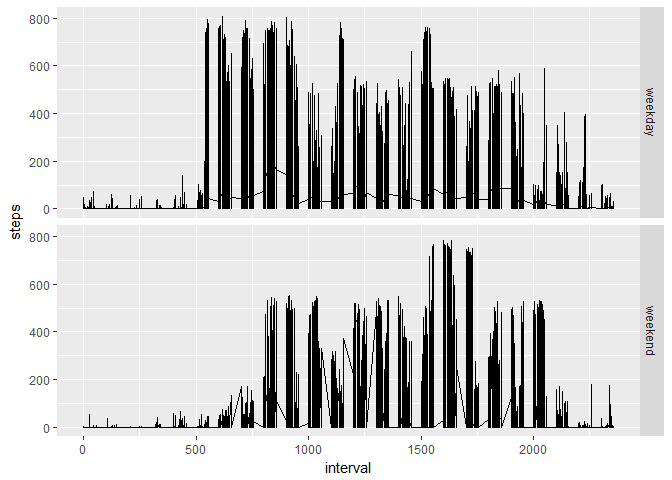
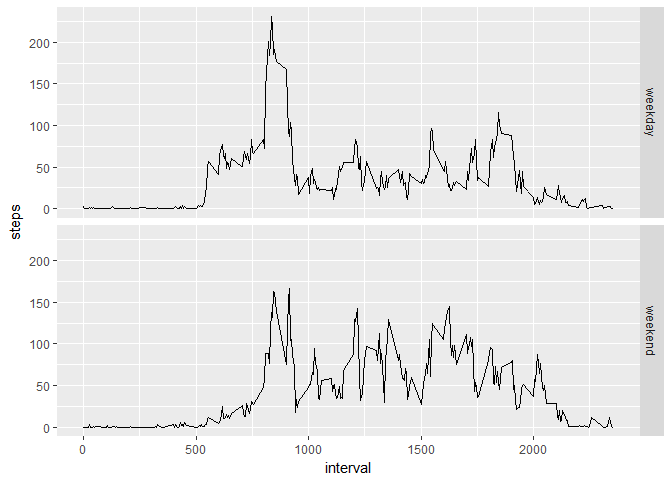
Add files via upload

diff --git a/PA1_template.html b/PA1_template.html
@@ -202,11 +202,15 @@ filled.step.per.day.median&lt;-median(data.filled.step.per.day$steps)</code></pr
 <pre class="r"><code>data.filled$weekday&lt;-weekdays(data.filled$date)
 data.filled[weekdays(data.filled$date) %in% c(&quot;Monday&quot;, &quot;Tuesday&quot;, &quot;Wednesday&quot;,&quot;Thursday&quot;,&quot;Friday&quot;),c(&quot;weekday&quot;)]&lt;-&quot;weekday&quot;
 data.filled[weekdays(data.filled$date) %in% c(&quot;Saturday&quot;, &quot;Sunday&quot;),c(&quot;weekday&quot;)]&lt;-&quot;weekend&quot;
+
+data.filled.daily&lt;-aggregate(data.filled$steps,list(data.filled$interval,data.filled$weekday),mean,na.rm=TRUE)
+colnames(data.filled.daily)&lt;-c(&quot;interval&quot;,&quot;weekday&quot;,&quot;steps&quot;)
+
 library(ggplot2)
-ggplot(data.filled, aes(interval,steps)) +  
+ggplot(data.filled.daily, aes(interval,steps)) +  
   geom_line() + 
   facet_grid(weekday~.) </code></pre>
[2 lines of base64/hex data omitted]
 </div>
 
 

diff --git a/PA1_template.md b/PA1_template.md
@@ -110,8 +110,12 @@ filled.step.per.day.median<-median(data.filled.step.per.day$steps)
 data.filled$weekday<-weekdays(data.filled$date)
 data.filled[weekdays(data.filled$date) %in% c("Monday", "Tuesday", "Wednesday","Thursday","Friday"),c("weekday")]<-"weekday"
 data.filled[weekdays(data.filled$date) %in% c("Saturday", "Sunday"),c("weekday")]<-"weekend"
+
+data.filled.daily<-aggregate(data.filled$steps,list(data.filled$interval,data.filled$weekday),mean,na.rm=TRUE)
+colnames(data.filled.daily)<-c("interval","weekday","steps")
+
 library(ggplot2)
-ggplot(data.filled, aes(interval,steps)) +  
+ggplot(data.filled.daily, aes(interval,steps)) +  
   geom_line() + 
   facet_grid(weekday~.) 
 ```
